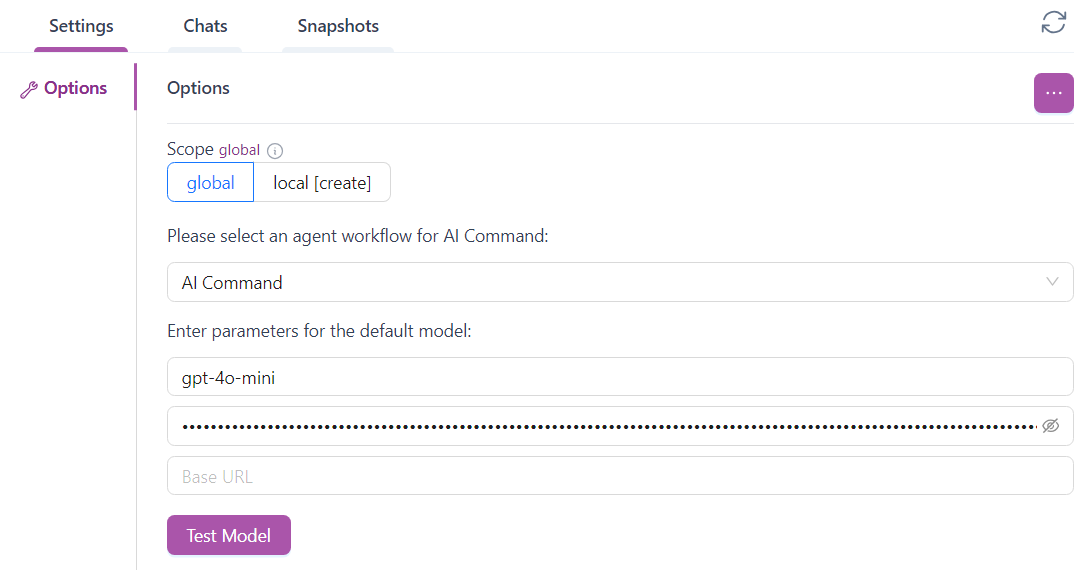
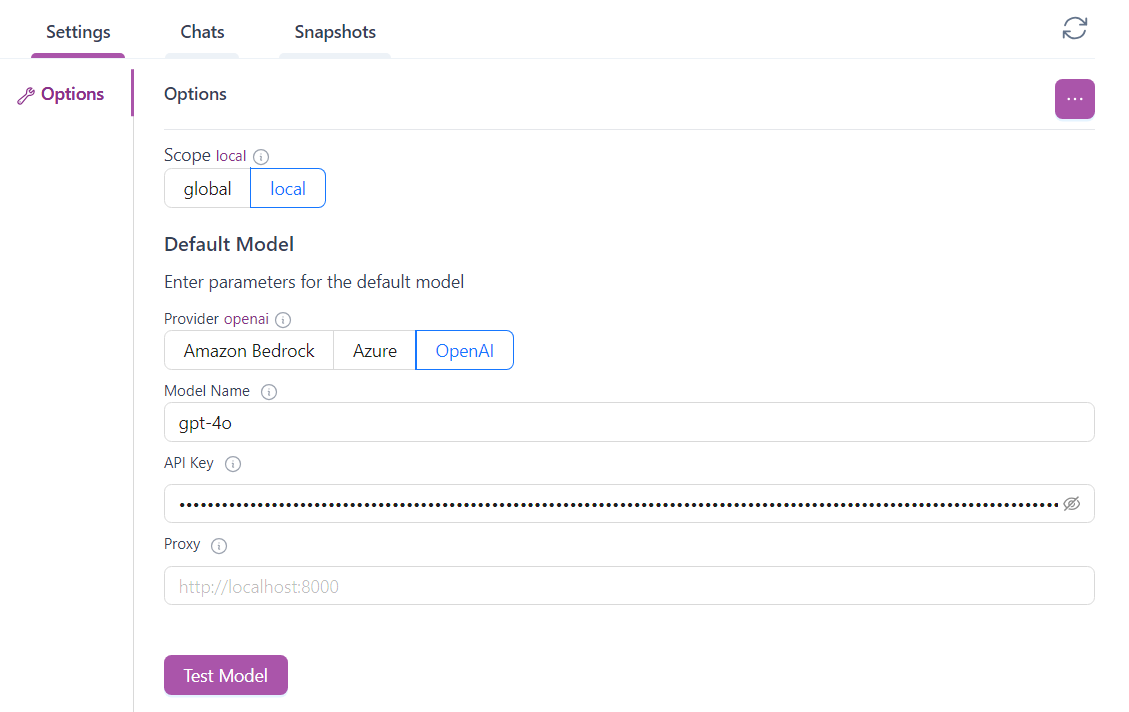
Amazon Bedrock described

diff --git a/docs/Guide/ai_dashboard.md b/docs/Guide/ai_dashboard.md
@@ -35,30 +35,33 @@ The dashboard comprises three pages:
 
 In its initial release, Rapise supports both OpenAI and Azure OpenAI models. To use OpenAI models, you only need an [OpenAI Api Key](https://help.openai.com/en/articles/4936850-where-do-i-find-my-openai-api-key). For [Azure OpenAI](https://learn.microsoft.com/en-us/azure/api-management/api-management-authenticate-authorize-azure-openai#authenticate-with-api-key), you also need to specify the endpoint URL.
 
+
 === "Screenshot"
-    ![Dashboard Settings](./img/ai_dashboard_settings.png){width="870px"}
+    ![Dashboard Settings](./img/ai_dashboard_settings.png){width="900px"}
 === "Transcript"
-    **Options**
+    **Options Tab**
 
-    Scope *global*  
-    - `global` (selected)  
-    - `local [create]`
+    - *Scope*: `global` | `local` (Selected: **local**)
 
-    Please select an agent workflow for AI Command:  
-    - `AI Command` (dropdown option)
+    **Default Model**
 
-    Enter parameters for the default model:  
-    - `gpt-4o-mini`
+    - *Provider*: `Amazon Bedrock` | `Azure` | `OpenAI` (Selected: **OpenAI**)
+    - *Model Name*: `gpt-4o`
+    - *API Key*: *[hidden]*
+    - *Proxy*: `http://localhost:8000`
 
-    - (Obscured text for input)
-
-    Base URL:  
-    - (Empty field)
-
-    **Test Model** (Button)
+    **Test Model**: [Button]
 
 
 You can create options that are local to the current testing framework. Simply click the `local[create]` button. If local options exist, Rapise will prioritize them over global ones. To delete local options, click `... > Delete Local`.
+
+#### Amazon Bedrock
+
+Rapise 8.3 adds support for [Amazon Bedrock](https://aws.amazon.com/bedrock). To configure Amazon Bedrock connection specify AWS Region, AWS Access Key and AWS Secret Access Key.
+
+#### Proxy
+
+If you are behind a proxy, specify it's URL in the `Proxy` field (works for all providers).
 
 ### Chats
 
